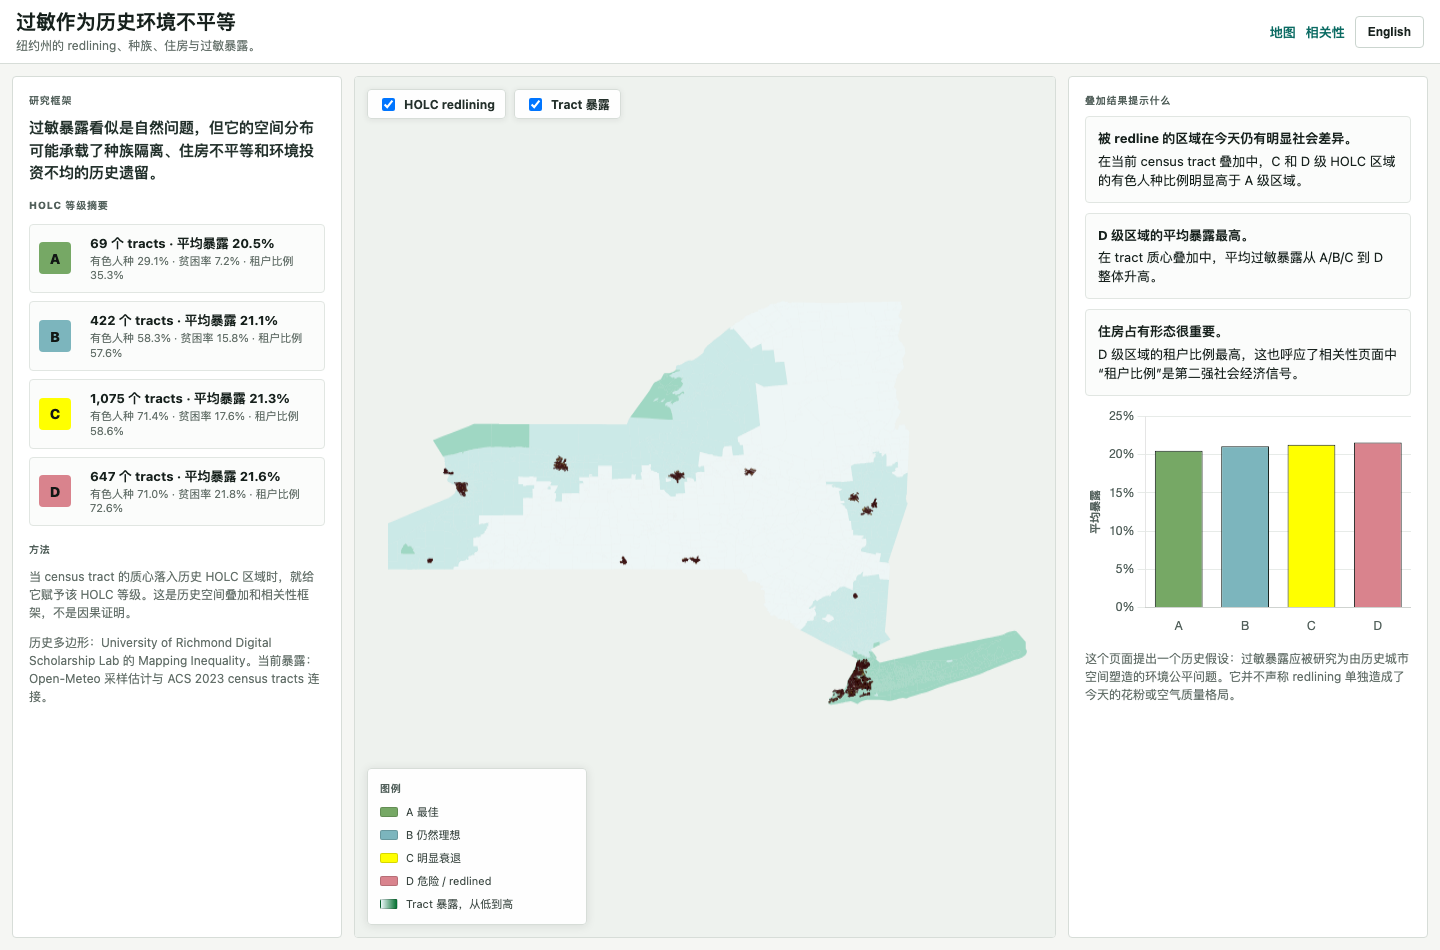
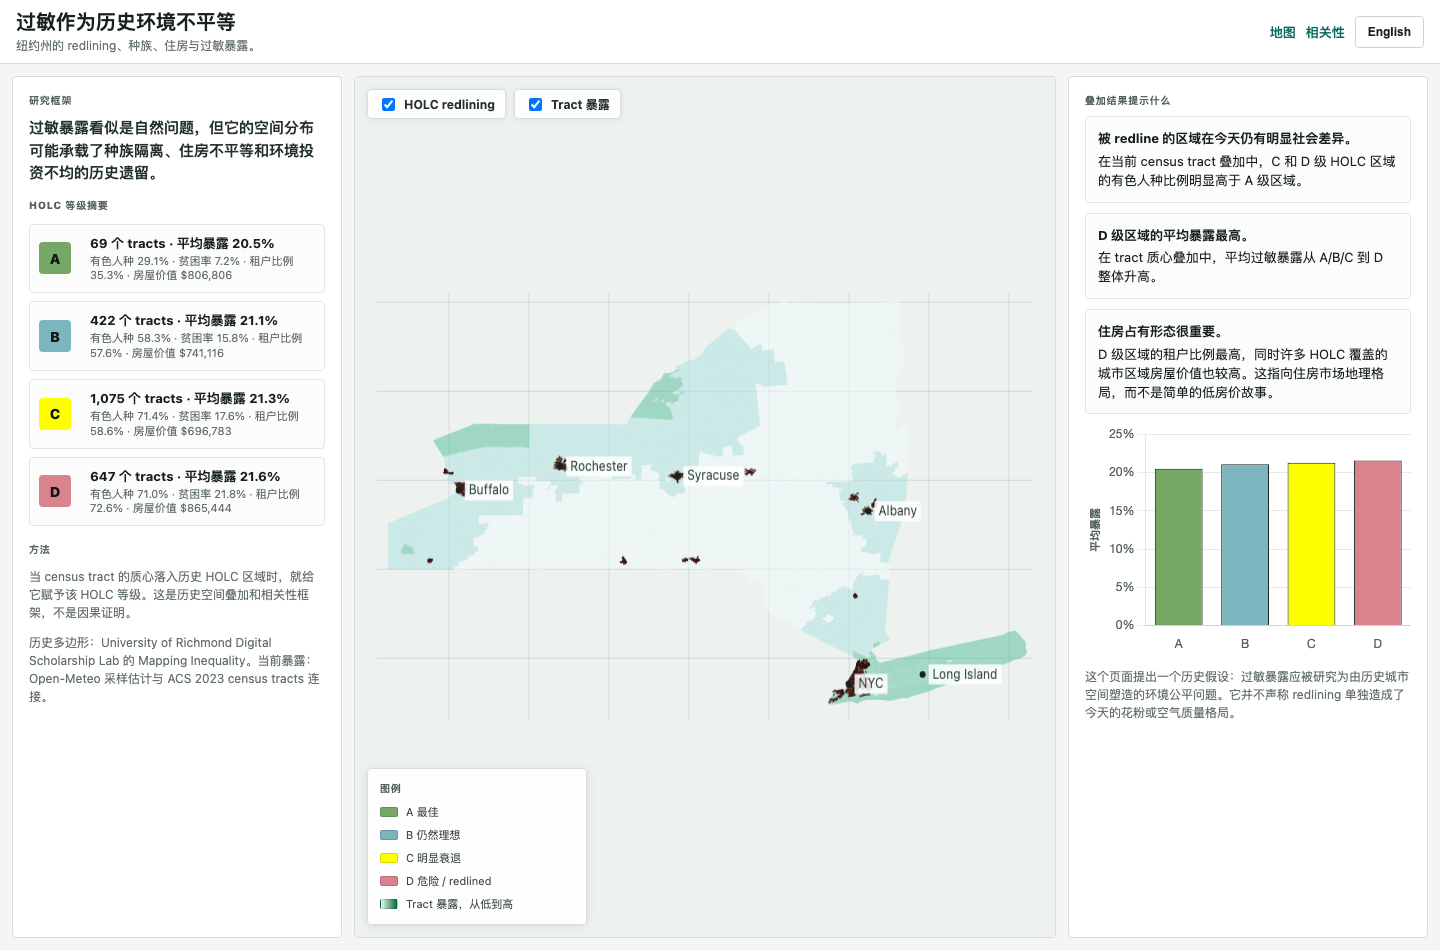
Add housing value correlation and improve history basemap

diff --git a/history.html b/history.html
@@ -275,13 +275,14 @@
         obs2Title: 'D areas show the highest average exposure.',
         obs2Body: 'Average allergen exposure rises from A/B/C to D in the tract-centroid overlay.',
         obs3Title: 'Housing tenure matters.',
-        obs3Body: 'Renter share is highest in D areas, matching the separate correlation result where renter share is the second strongest socioeconomic signal.',
+        obs3Body: 'Renter share is highest in D areas, while home values are also high in many HOLC-covered urban areas. This points to housing-market geography, not a simple low-value story.',
         cautionText: 'This page frames a historical hypothesis: allergy exposure should be studied as an environmental equity issue shaped by historical urban space. It does not claim redlining alone caused present-day pollen or air-quality patterns.',
         tracts: 'tracts',
         avgExposure: 'avg exposure',
         peopleOfColor: 'people of color',
         poverty: 'poverty',
-        renters: 'renters'
+        renters: 'renters',
+        homeValue: 'home value'
       },
       zh: {
         title: '过敏作为历史环境不平等',
@@ -309,13 +310,14 @@
         obs2Title: 'D 级区域的平均暴露最高。',
         obs2Body: '在 tract 质心叠加中，平均过敏暴露从 A/B/C 到 D 整体升高。',
         obs3Title: '住房占有形态很重要。',
-        obs3Body: 'D 级区域的租户比例最高，这也呼应了相关性页面中“租户比例”是第二强社会经济信号。',
+        obs3Body: 'D 级区域的租户比例最高，同时许多 HOLC 覆盖的城市区域房屋价值也较高。这指向住房市场地理格局，而不是简单的低房价故事。',
         cautionText: '这个页面提出一个历史假设：过敏暴露应被研究为由历史城市空间塑造的环境公平问题。它并不声称 redlining 单独造成了今天的花粉或空气质量格局。',
         tracts: '个 tracts',
         avgExposure: '平均暴露',
         peopleOfColor: '有色人种',
         poverty: '贫困率',
-        renters: '租户比例'
+        renters: '租户比例',
+        homeValue: '房屋价值'
       }
     };
 
@@ -359,7 +361,7 @@
             <div class="grade-chip" style="background:${colors[grade]}">${grade}</div>
             <div>
               <strong>${row.tract_count.toLocaleString()} ${t('tracts')} · ${t('avgExposure')} ${pct(row.avg_exposure)}</strong>
-              <span>${t('peopleOfColor')} ${pct(row.avg_people_of_color_pct)} · ${t('poverty')} ${pct(row.avg_poverty_rate)} · ${t('renters')} ${pct(row.avg_renter_pct)}</span>
+              <span>${t('peopleOfColor')} ${pct(row.avg_people_of_color_pct)} · ${t('poverty')} ${pct(row.avg_poverty_rate)} · ${t('renters')} ${pct(row.avg_renter_pct)} · ${t('homeValue')} $${Math.round(row.avg_median_home_value).toLocaleString()}</span>
             </div>
           </div>
         `;
@@ -447,6 +449,27 @@
         rect.height - (yOffset + (lat - bbox[1]) * scale)
       ];
 
+      ctx.strokeStyle = 'rgba(82,96,91,0.16)';
+      ctx.lineWidth = 1;
+      ctx.font = '10px -apple-system, BlinkMacSystemFont, "Segoe UI", sans-serif';
+      ctx.fillStyle = '#6b7772';
+      for (let lng = -79; lng <= -72; lng += 1) {
+        const [x1, y1] = project([lng, bbox[1]]);
+        const [x2, y2] = project([lng, bbox[3]]);
+        ctx.beginPath();
+        ctx.moveTo(x1, y1);
+        ctx.lineTo(x2, y2);
+        ctx.stroke();
+      }
+      for (let lat = 41; lat <= 45; lat += 1) {
+        const [x1, y1] = project([bbox[0], lat]);
+        const [x2, y2] = project([bbox[2], lat]);
+        ctx.beginPath();
+        ctx.moveTo(x1, y1);
+        ctx.lineTo(x2, y2);
+        ctx.stroke();
+      }
+
       function drawRing(ring) {
         ring.forEach((point, index) => {
           const [x, y] = project(point);
@@ -483,8 +506,45 @@
         ctx.lineWidth = 0.8;
         ctx.stroke();
       });
+
+      const cities = [
+        ['Buffalo', -78.8784, 42.8864],
+        ['Rochester', -77.6088, 43.1566],
+        ['Syracuse', -76.1474, 43.0481],
+        ['Albany', -73.7562, 42.6526],
+        ['NYC', -74.0060, 40.7128],
+        ['Long Island', -73.08, 40.82]
+      ];
+      ctx.font = '12px -apple-system, BlinkMacSystemFont, "Segoe UI", sans-serif';
+      ctx.textBaseline = 'middle';
+      cities.forEach(([name, lng, lat]) => {
+        const [x, y] = project([lng, lat]);
+        ctx.globalAlpha = 1;
+        ctx.fillStyle = '#17211d';
+        ctx.beginPath();
+        ctx.arc(x, y, 3, 0, Math.PI * 2);
+        ctx.fill();
+        ctx.fillStyle = 'rgba(255,255,255,0.86)';
+        const width = ctx.measureText(name).width + 8;
+        ctx.fillRect(x + 6, y - 9, width, 18);
+        ctx.fillStyle = '#3d4944';
+        ctx.fillText(name, x + 10, y);
+      });
       ctx.globalAlpha = 1;
     }
+
+    const BASEMAP_STYLE = {
+      version: 8,
+      sources: {
+        osm: {
+          type: 'raster',
+          tiles: ['https://tile.openstreetmap.org/{z}/{x}/{y}.png'],
+          tileSize: 256,
+          attribution: '&copy; OpenStreetMap contributors'
+        }
+      },
+      layers: [{ id: 'osm', type: 'raster', source: 'osm' }]
+    };
 
     let map = null;
     let mapLayersAdded = false;
@@ -546,6 +606,7 @@
         map.on('mouseenter', layer, () => { map.getCanvas().style.cursor = 'pointer'; });
         map.on('mouseleave', layer, () => { map.getCanvas().style.cursor = ''; });
       }
+      document.getElementById('fallbackMap').style.display = 'none';
     }
 
     async function loadData() {
@@ -584,7 +645,7 @@
       }
       map = new maplibregl.Map({
         container: 'map',
-        style: 'https://tiles.openfreemap.org/styles/bright',
+        style: BASEMAP_STYLE,
         center: [-75.1, 42.75],
         zoom: 6.7
       });

diff --git a/correlation.html b/correlation.html
@@ -231,7 +231,7 @@
   <header>
     <div>
       <h1 data-i18n="pageTitle">NY Allergy Equity Correlation Analysis</h1>
-      <p data-i18n="pageSubtitle">A focused view of allergen exposure against race/ethnicity, poverty, income, housing tenure, children, and older adults.</p>
+      <p data-i18n="pageSubtitle">A focused view of allergen exposure against race/ethnicity, poverty, income, home value, housing tenure, children, and older adults.</p>
     </div>
     <div class="header-actions">
       <a href="index.html" data-i18n="backToMap">Back to map</a>
@@ -248,7 +248,7 @@
       <label data-i18n="yAxis">Outcome</label>
       <div class="fixed-value" data-i18n="fixedOutcome">Allergen Exposure</div>
       <p class="note" data-i18n="note">
-        Focused analysis: allergen exposure compared with race/ethnicity, poverty, income, renter share, children, and older adults.
+        Focused analysis: allergen exposure compared with race/ethnicity, poverty, income, home value, renter share, children, and older adults.
       </p>
       <div class="observations">
         <p class="section-label" data-i18n="observationsTitle">Key Observations</p>
@@ -286,7 +286,7 @@
       en: {
         documentTitle: 'NY Allergy Equity - Correlation Analysis',
         pageTitle: 'NY Allergy Equity Core Correlations',
-        pageSubtitle: 'A focused view of allergen exposure against race/ethnicity, poverty, income, housing tenure, children, and older adults.',
+        pageSubtitle: 'A focused view of allergen exposure against race/ethnicity, poverty, income, home value, housing tenure, children, and older adults.',
         backToMap: 'Back to map',
         historyLink: 'History',
         variables: 'Core Indicators',
@@ -294,7 +294,7 @@
         yAxis: 'Outcome',
         fixedOutcome: 'Allergen Exposure',
         pointColor: 'Point color',
-        note: 'Focused analysis: allergen exposure compared with race/ethnicity, poverty, income, renter share, children, and older adults. Each point is one census tract.',
+        note: 'Focused analysis: allergen exposure compared with race/ethnicity, poverty, income, home value, renter share, children, and older adults. Each point is one census tract.',
         tracts: 'Tracts',
         slope: 'Slope',
         loading: 'Loading tract data...',
@@ -312,7 +312,7 @@
       zh: {
         documentTitle: '纽约过敏公平 - 相关性分析',
         pageTitle: '纽约过敏公平核心相关性',
-        pageSubtitle: '聚焦过敏暴露与种族/族裔、贫困、收入、租户比例、儿童人口、老年人口之间的关系。',
+        pageSubtitle: '聚焦过敏暴露与种族/族裔、贫困、收入、房屋价值、租户比例、儿童人口、老年人口之间的关系。',
         backToMap: '返回地图',
         historyLink: '历史',
         variables: '核心指标',
@@ -320,7 +320,7 @@
         yAxis: '结果变量',
         fixedOutcome: '过敏原暴露',
         pointColor: '点颜色',
-        note: '聚焦分析：将过敏暴露分别与种族/族裔、贫困、收入中位数、租户比例、儿童人口、老年人口指标比较。每个点代表一个 census tract。',
+        note: '聚焦分析：将过敏暴露分别与种族/族裔、贫困、收入中位数、房屋价值中位数、租户比例、儿童人口、老年人口指标比较。每个点代表一个 census tract。',
         tracts: 'Census tracts',
         slope: '斜率',
         loading: '正在加载 tract 数据...',
@@ -356,6 +356,14 @@
         body: {
           en: 'People of color share has the strongest association with exposure (Pearson r = 0.61, Spearman rho = 0.64).',
           zh: '有色人种比例与过敏暴露的关系最强（Pearson r = 0.61，Spearman rho = 0.64）。'
+        }
+      },
+      {
+        key: 'median_home_value',
+        title: { en: 'Home value is the strongest housing-market signal', zh: '房屋价值是最强的住房市场信号' },
+        body: {
+          en: 'Median home value has a strong positive relationship with exposure (r = 0.67, Spearman rho = 0.73), suggesting geography and housing markets are central to the pattern.',
+          zh: '房屋价值中位数与过敏暴露呈强正相关（r = 0.67，Spearman rho = 0.73），说明地理位置和住房市场是这个格局的核心。'
         }
       },
       {
@@ -436,6 +444,13 @@
         min: 0,
         max: 250000
       },
+      median_home_value: {
+        label: { en: 'Median Home Value', zh: '房屋价值中位数' },
+        field: 'median_home_value',
+        format: v => `$${Math.round(v).toLocaleString()}`,
+        min: 0,
+        max: 1200000
+      },
       people_of_color_pct: {
         label: { en: 'People of Color Share', zh: '有色人种比例' },
         field: 'people_of_color_pct',
@@ -493,7 +508,7 @@
         max: 2025
       }
     };
-    const CORE_INDICATORS = ['people_of_color_pct', 'poverty_rate', 'income', 'renter_pct', 'under18_pct', 'over65_pct'];
+    const CORE_INDICATORS = ['people_of_color_pct', 'median_home_value', 'poverty_rate', 'income', 'renter_pct', 'under18_pct', 'over65_pct'];
     const OUTCOME_KEY = 'exposure';
 
     let rows = [];